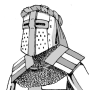
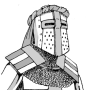
brand new images for heroes and the castellan!

diff --git a/index.html b/index.html
@@ -595,7 +595,7 @@
 				</tr>
 				<tr>
 					<td>
-						castellan
+						<img id="imgCastellanInHiringScreen" src="resources/castellan.png">
 					</td>
 					<td>
 						sergeants: <div id="lblGarnisonSergeants" style="display: inline">0</div><button id="btnMoveSergeantToHero" onclick="game.moveSergeantsToHero()">↓</button>
@@ -609,7 +609,8 @@
 				</tr>
 				<tr id="trHeroHiringTroops" style="visibility: collapse">
 					<td>
-						hero
+						<img id="imgHeroInHiringScreenKnight" style="display: none" src="resources/hero-knight.png">
+						<img id="imgHeroInHiringScreenMonk" style="display: none" src="resources/hero-monk.png">
 					</td>
 					<td>
 						sergeants: <div id="lblHeroSergeants" style="display: inline">0</div><button id="btnMoveSergeantToGarrison" onclick="game.moveSergeantsToGarnison()">↑</button>
@@ -3699,6 +3700,13 @@
 				document.getElementById("btnAutocampaign").style.visibility="visible";
 				document.getElementById("btnAutocampaignJournal").style.visibility="visible";
 				document.getElementById("trHeroHiringTroops").style.visibility="visible";
+				if (game.myhero.class===0) {
+					document.getElementById("imgHeroInHiringScreenKnight").style.display="block";
+					document.getElementById("imgHeroInHiringScreenMonk").style.display="none";
+				} else {
+					document.getElementById("imgHeroInHiringScreenKnight").style.display="none";
+					document.getElementById("imgHeroInHiringScreenMonk").style.display="block";
+				}
 				document.getElementById("btnLeaveCity").style.visibility="visible";
 				document.getElementById("btnTowngate").style.visibility="hidden";
 			}
